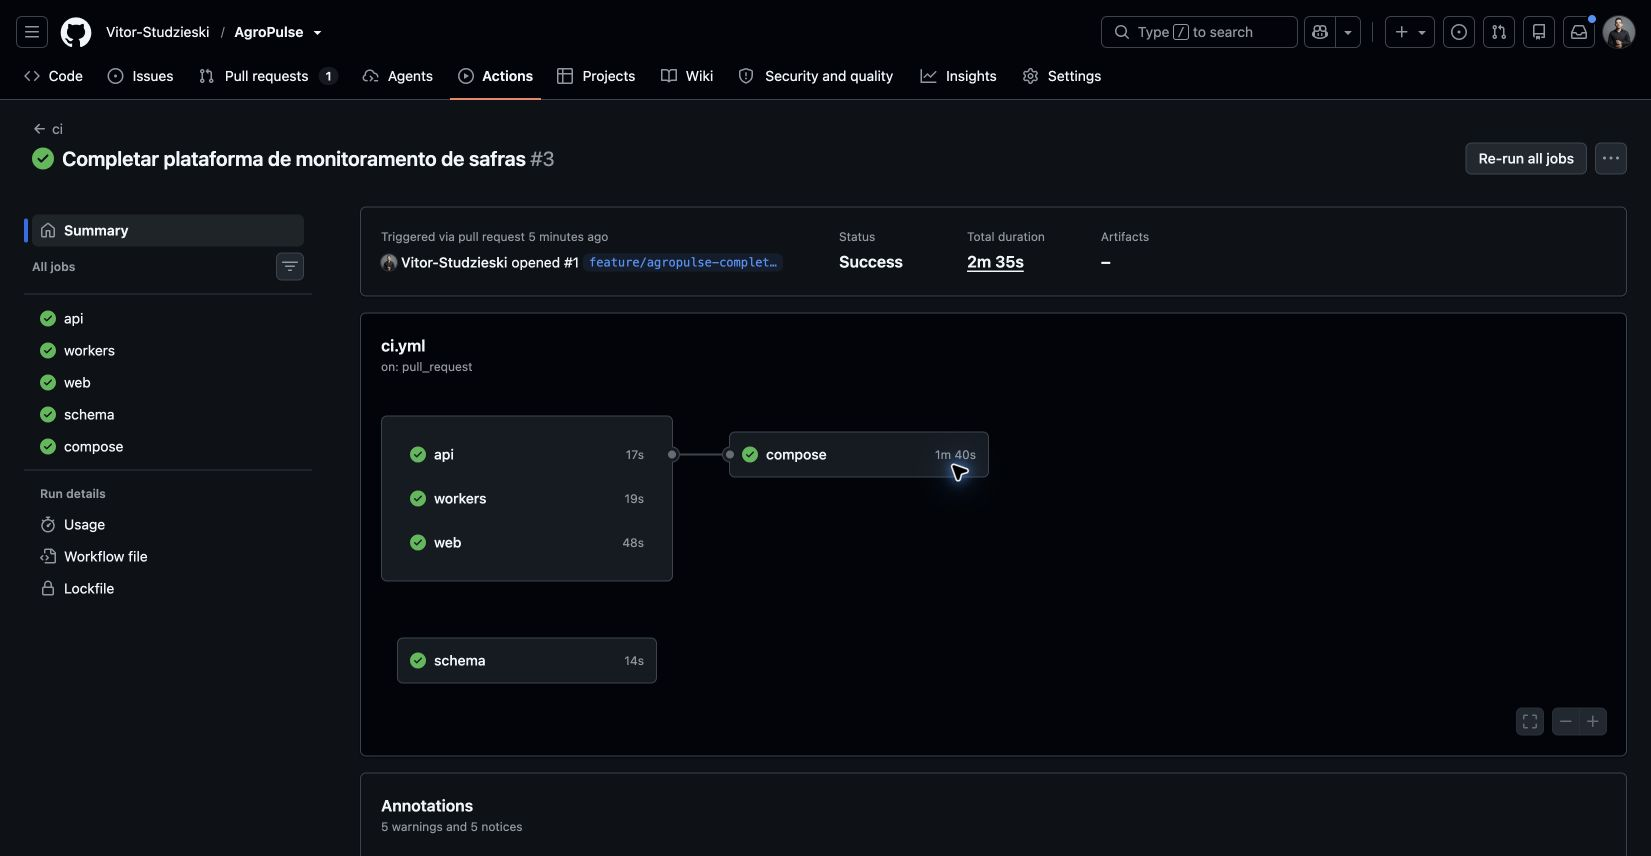
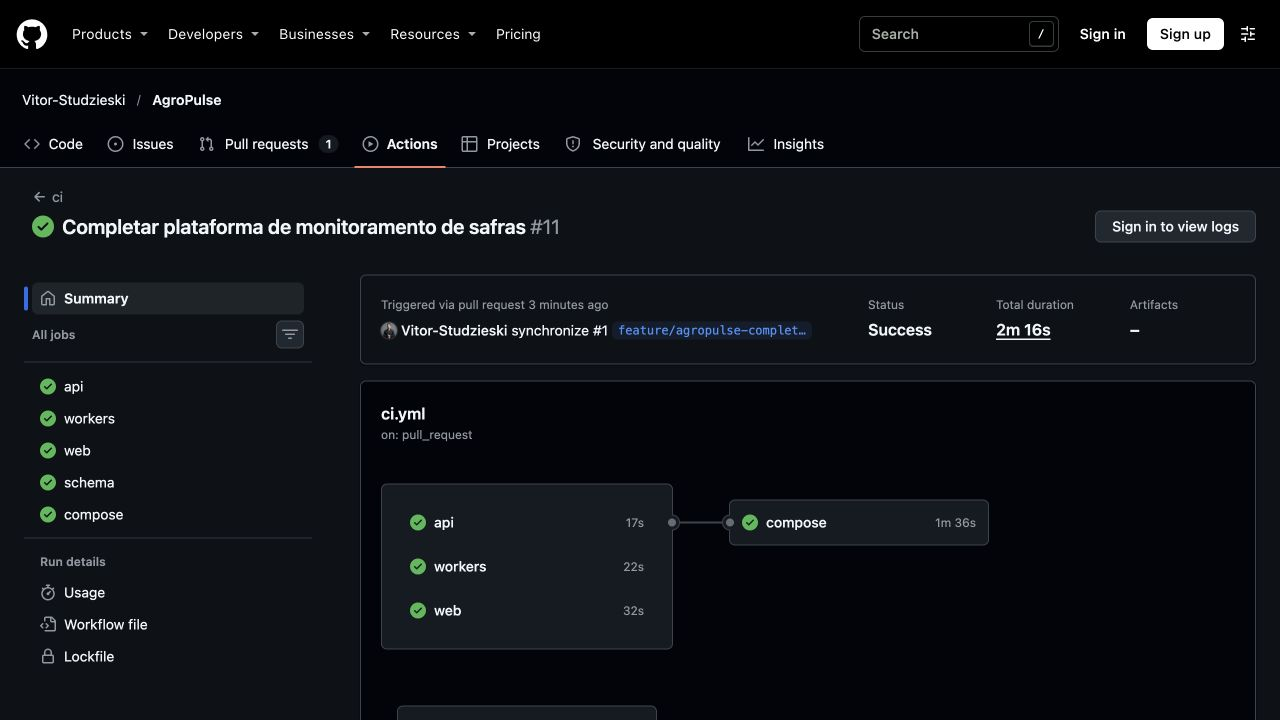
docs: atualizar evidencias do CI

diff --git a/docs/REQUISITOS.md b/docs/REQUISITOS.md
@@ -27,7 +27,7 @@ Esta matriz converte os requisitos do guia de engenharia (seções 2–14) em ev
 | Persistência MongoDB | `infra/mongo/01-replica-set.js`, `02-schema.js` e `03-verify-schema.js`; coleções, time series, índices, validações, TTL e plano `IXSCAN` | A compatibilidade exata dos comandos do schema depende do tier MongoDB usado; o job de CI aplica e verifica em MongoDB 7 limpo. O Atlas Free usa MongoDB 8.0, então o schema hospedado ainda precisa de validação específica antes da publicação. |
 | Reprodutibilidade | `make demo` inicia a stack integrada, aplica o seed idempotente, gera sete dias de telemetria histórica, inicia a simulação ao vivo, importa as amostras oficiais limitadas de INMET/IBGE e executa o rollup inicial; o serviço integrado atualiza os resumos diariamente. Três Compose isolam web, API e workers; o front tem `package-lock.json`; API e workers têm locks Python transitivos, universais para Python 3.12 e com hashes, consumidos por Docker e CI | Exige Docker; consultas às APIs oficiais são necessárias apenas para atualizar as amostras. Atualizar uma dependência exige alterar a versão direta e regenerar os locks com `uv pip compile`. |
 | Recuperação automática | Restart policies Compose; supervisor da imagem Render; preenchimento de lacunas limitado; recuperação de alertas pendentes | Render Free hiberna quando ocioso; não promete 24/7, SLA ou execução contínua dos workers |
-| CI em cada push e PR | `.github/workflows/ci.yml`: lint/teste, sintaxe do gerador PAM, build web, schema, manifests e imagem Render | O PR #1 está aberto e publicado. O run #7, no commit `eab0007`, passou nos cinco jobs (API, workers, web, schema e Compose). O estado de cada atualização posterior aparece nos checks do próprio PR. |
+| CI em cada push e PR | `.github/workflows/ci.yml`: lint/teste, sintaxe do gerador PAM, build web, schema, manifests e imagem Render | O PR #1 está aberto e publicado. O run #11, no commit `e7b3f94`, passou nos cinco jobs (API, workers, web, schema e Compose). O estado de cada atualização posterior aparece nos checks do próprio PR. |
 | Custo de armazenamento Atlas | TTL de 30 dias no Blueprint, importação limitada e rollup | Atlas Free tem teto de dados + índices; monitorar e reduzir a carga ao aproximar do limite |
 
 ## Verificações locais concluídas
@@ -53,13 +53,13 @@ Esta matriz converte os requisitos do guia de engenharia (seções 2–14) em ev
 - Build de produção do Next.js, configuração dos cinco manifests Compose e construção da imagem Render aprovados. Uma cópia integrada e isolada da stack recebeu o seed Fatec e o ZIP INMET; o painel autenticado exibiu os dados de 2024 da A763.
 - Após reconstruir somente o serviço web, o Chrome recarregou a demonstração com a janela recente vazia e selecionou automaticamente `Ano 2024`; o painel exibiu as observações oficiais da A763 até 31/12/2024 às 20:00 no horário local. A captura acadêmica correspondente ainda precisa ser salva pelo grupo.
 - Fluxo integrado exercitado em stack Docker isolada com usuário sintético descartável: cadastro/login/perfil; CRUD de fazenda, talhão, safra, operação, sensor e regra de alerta; leitura emitida pelo simulador; alerta criado e avaliado pelo worker, resolvido e removido; exclusão dos recursos e da conta de teste; token revogado respondeu 401. Os dados do teste foram removidos e o volume da stack de demonstração foi preservado.
-- Workflow GitHub Actions verificado no PR #1: o run #7, no commit `eab0007`, terminou com sucesso nos jobs `schema`, `workers`, `api`, `web` e `compose`. O workflow executa em pushes e pull requests.
+- Workflow GitHub Actions verificado no PR #1: o run #11, no commit `e7b3f94`, terminou com sucesso nos jobs `schema`, `workers`, `api`, `web` e `compose`. O workflow executa em pushes e pull requests.
 - Os três Compose isolados iniciaram. Web/Mock API e API isolada responderam 200; API e imagem Render passaram health GET/HEAD e `/docs`. O worker isolado iniciou com 6 sensores, 3 regras e leituras geradas.
 - Os containers de validação foram encerrados com `down` normal; os volumes foram preservados. `git diff --check` passou.
 
 ## Evidências acadêmicas pendentes do grupo
 
-O guia também exige relatório, 28 capturas nomeadas, identificação dos integrantes, link do GitHub e apresentação em laboratório. Os nomes completos de Vitor Studzieski, Maria Fernanda Passos e Lauan Alves Ferneda já foram informados e constam em `docs/RELATORIO-MODELO.md`; o remoto público `https://github.com/Vitor-Studzieski/AgroPulse` foi confirmado. Há 26 capturas finais revisadas, incluindo o documento agregado da coleção `field_daily_stats` na captura 26. Os arquivos 15 e 18 existem, mas devem ser recapturados sem os erros exploratórios que aparecem na tela. Os RAs e a data da apresentação ainda precisam ser informados pelo grupo. A branch `feature/agropulse-completion` está publicada no PR #1, aberto e sem merge; o run #7 do commit `eab0007` passou nos cinco jobs.
+O guia também exige relatório, 28 capturas nomeadas, identificação dos integrantes, link do GitHub e apresentação em laboratório. Os nomes completos de Vitor Studzieski, Maria Fernanda Passos e Lauan Alves Ferneda já foram informados e constam em `docs/RELATORIO-MODELO.md`; o remoto público `https://github.com/Vitor-Studzieski/AgroPulse` foi confirmado. Há 26 capturas finais revisadas, incluindo o documento agregado da coleção `field_daily_stats` na captura 26. Os arquivos 15 e 18 existem, mas devem ser recapturados sem os erros exploratórios que aparecem na tela. Os RAs e a data da apresentação ainda precisam ser informados pelo grupo. A branch `feature/agropulse-completion` está publicada no PR #1, aberto e sem merge; o run #11 do commit `e7b3f94` passou nos cinco jobs.
 
 ## Pendências priorizadas
 

diff --git a/docs/RELATORIO-MODELO.md b/docs/RELATORIO-MODELO.md
@@ -126,7 +126,7 @@ A interface Next.js autentica pela API FastAPI e oferece o painel e os formulár
 
 ## 7. Testes e verificações
 
-Esta seção registra as verificações executadas e as capturas que ainda devem ser anexadas. As suítes locais de API e workers, o build de produção da interface e os manifests/builds locais foram executados. A branch `feature/agropulse-completion` foi publicada. O run #7 do CI no PR #1 passou nos cinco jobs para o commit `eab0007`; a captura 28 preserva o resultado anterior do run #3 (`285c32c`).
+Esta seção registra as verificações executadas e as capturas que ainda devem ser anexadas. As suítes locais de API e workers, o build de produção da interface e os manifests/builds locais foram executados. A branch `feature/agropulse-completion` foi publicada. O run #11 do CI no PR #1 passou nos cinco jobs para o commit `e7b3f94`; a captura 28 registra esse resultado.
 
 | Verificação | Resultado observado | Data / evidência |
 |---|---|---|
@@ -137,7 +137,7 @@ Esta seção registra as verificações executadas e as capturas que ainda devem
 | Compose e smoke tests locais | Os três ambientes isolados iniciaram; endpoints de saúde e documentação responderam | Validação local; anexar log/captura |
 | Demonstração em banco vazio | `make demo` em projeto Compose isolado criou seed, 3 talhões e 6 sensores; backfill gerou 12.096 leituras sintéticas de sete dias; importou INMET A763 (8.784 leituras) e PAM/SP (1.556 registros); o rollup criou 24 documentos em `field_daily_stats`. A API autenticada retornou clima 2024 e top 10 do ranking 2023. A segunda execução manteve as contagens, sem backfill duplicado ou resumos diários duplicados. | 2026-10-30; validação repetida em projeto isolado e volumes temporários removidos após a conferência |
 | Fluxo CRUD integrado | Cadastro/login, recursos agrícolas, telemetria simulada, alerta avaliado pelo worker e exclusão da conta temporária concluídos; token revogado retornou 401 | Stack local isolada, 2026-10-30; conta descartável removida, anexar captura se exigida |
-| GitHub Actions remoto | Aprovado em 2026-10-31 nos jobs schema, workers, api, web e compose | Run #7 do PR #1, commit `eab0007`; cinco jobs aprovados. A captura `28-github-actions-verde.png` mostra o run #3 do commit `285c32c`. Avisos do runner sobre Node.js 20 e a migração de `ubuntu-latest` não impediram a aprovação. |
+| GitHub Actions remoto | Aprovado em 2026-10-31 nos jobs schema, workers, api, web e compose | Run #11 do PR #1, commit `e7b3f94`; cinco jobs aprovados. A captura `28-github-actions-verde.png` mostra esse resultado. Avisos do runner sobre Node.js 20 e a migração de `ubuntu-latest` não impediram a aprovação. |
 
 ## 8. Demonstração
 
@@ -159,7 +159,7 @@ Limitações verificadas ou pendentes de evidência:
 - Na validação descartável sem volume, o ZIP oficial do INMET 2024 foi importado com filtro SP após aplicação de `infra/mongo/02-schema.js`: 40 estações e 351.360 observações. A amostra compacta versionada conserva somente o arquivo oficial da A763/Marília (8.784 leituras). `make demo` a carrega para que a demonstração anual funcione em um clone limpo; a API e o painel mostraram A763 a 27,8 km do campus e a última observação em 31/12/2024 23:00 UTC (20:00 no horário local). Ainda falta anexar a captura acadêmica.
 - A fixture SIDRA oficial de Sorriso (MT), ano 2023, valida leitura e parsing e foi importada em um MongoDB temporário sem volume persistente; foram conferidos três documentos (soja, milho e cana). Repetir ou fotografar essa consulta no ambiente de demonstração do grupo, se exigido.
 - A amostra oficial da PAM/SIDRA 2023 para SP está versionada em `data/imports/pam-sp-2023.csv` e é carregada por `make demo` sem consulta externa. O gerador consultou as APIs oficiais e reproduziu o CSV versionado byte a byte. O importador persistiu 1.556 combinações municipais completas; a API autenticada retornou o top 10 de soja por produtividade e o painel exibiu Pompéia na referência oficial regional. Isso não altera a demonstração espacial, que permanece limitada ao campus e a polígonos sintéticos próximos.
-- A branch pública `feature/agropulse-completion` está no remoto `https://github.com/Vitor-Studzieski/AgroPulse` e o PR #1 está aberto para revisão, sem merge. O CI do commit de implementação `285c32c` passou nos cinco jobs. Faltam recapturar 15 e 18 sem erros exploratórios, inserir os RAs e confirmar a data da apresentação para fechar a versão acadêmica final.
+- A branch pública `feature/agropulse-completion` está no remoto `https://github.com/Vitor-Studzieski/AgroPulse` e o PR #1 está aberto para revisão, sem merge. O run #11 do CI no commit `e7b3f94` passou nos cinco jobs. Faltam recapturar 15 e 18 sem erros exploratórios, inserir os RAs e confirmar a data da apresentação para fechar a versão acadêmica final.
 
 Como trabalhos futuros, podem ser considerados autenticação de dispositivos e ingestão por gateway, exportação do relatório de safra e avaliação com uma carga de dados maior, preservando os limites financeiros definidos.
 

diff --git a/docs/evidencias/README.md b/docs/evidencias/README.md
@@ -4,7 +4,7 @@ Salve as capturas listadas no apêndice A de [RELATORIO-MODELO.md](../RELATORIO-
 
 Use apenas dados de demonstração nos prints. Não inclua senhas, tokens, strings de conexão, dados pessoais ou credenciais de serviços. Para GitHub Actions, capture o resultado real depois que o workflow remoto for executado; não produza uma imagem ilustrativa no lugar do check.
 
-Das 28 capturas previstas no apêndice A, os 28 arquivos numerados estão salvos. Vinte e seis foram revisados como finais: `01-login.png` a `14-codigo-change-stream.png`, `16-getcollectioninfos-timeseries.png`, `17-validacao-erro.png`, `19-geointersects.png`, `20-agregacao-media-diaria.png`, `21-compass-colecoes.png`, `22-documento-fields.png`, `23-documento-sensor-reading.png`, `24-indices-fields.png`, `25-validacao-farms.png`, `26-field-daily-stats.png`, `27-github-repo.png` e `28-github-actions-verde.png`. As imagens 15 e 18 mostram os resultados esperados, mas também incluem erros exploratórios anteriores e devem ser recapturadas. A captura 26 mostra a coleção `field_daily_stats` com 24 documentos agregados. A captura Swagger mostra a rota pública `GET /health` e a resposta HTTP 200 (`{"status":"ok"}`). `painel-visao-geral.png` é uma imagem complementar do dashboard. As telas de Safras e Operações mostram estados vazios reais da demonstração; não foram criados registros apenas para preencher capturas. A imagem 28 registra o run #3 do commit `285c32c`; o run #7 do commit `eab0007` também passou nos cinco jobs do GitHub Actions. Os RAs e a data da apresentação devem ser completados pelo grupo antes da entrega.
+Das 28 capturas previstas no apêndice A, os 28 arquivos numerados estão salvos. Vinte e seis foram revisados como finais: `01-login.png` a `14-codigo-change-stream.png`, `16-getcollectioninfos-timeseries.png`, `17-validacao-erro.png`, `19-geointersects.png`, `20-agregacao-media-diaria.png`, `21-compass-colecoes.png`, `22-documento-fields.png`, `23-documento-sensor-reading.png`, `24-indices-fields.png`, `25-validacao-farms.png`, `26-field-daily-stats.png`, `27-github-repo.png` e `28-github-actions-verde.png`. As imagens 15 e 18 mostram os resultados esperados, mas também incluem erros exploratórios anteriores e devem ser recapturadas. A captura 26 mostra a coleção `field_daily_stats` com 24 documentos agregados. A captura Swagger mostra a rota pública `GET /health` e a resposta HTTP 200 (`{"status":"ok"}`). `painel-visao-geral.png` é uma imagem complementar do dashboard. As telas de Safras e Operações mostram estados vazios reais da demonstração; não foram criados registros apenas para preencher capturas. A imagem 28 registra o run #11 do commit `e7b3f94`; os cinco jobs do GitHub Actions passaram. Os RAs e a data da apresentação devem ser completados pelo grupo antes da entrega.
 
 ## Conteúdo de cada captura
 
@@ -21,6 +21,6 @@ Use esta lista para conferir o enquadramento antes de marcar um item como conclu
 | `19-geointersects` | Compass mongosh: consultar `fields.boundary` com `$geoIntersects` no ponto do campus `[-50.1994, -22.1110]`; mostrar o talhão de demonstração retornado. |
 | `20-agregacao-media-diaria` | Compass mongosh: média diária de `soil_moisture` agrupada por talhão e dia, conforme consulta em `docs/MODELO-DADOS.md`. |
 | `21-compass-colecoes`, `22-documento-fields`, `23-documento-sensor-reading`, `24-indices-fields`, `25-validacao-farms`, `26-field-daily-stats` | Compass: lista de coleções; documento de `fields`; documento em `sensor_readings`; índices de `fields`; validação de `farms`; documento agregado em `field_daily_stats`. `make demo` executa o rollup inicial. |
-| `27-github-repo`, `28-github-actions-verde` | Branch público `feature/agropulse-completion` e PR #1 aberto. A captura 28 mostra os cinco jobs aprovados no run #3 (`285c32c`); o run #7 do commit `eab0007` também passou nos cinco jobs. O PR permanece aberto para revisão. |
+| `27-github-repo`, `28-github-actions-verde` | Branch público `feature/agropulse-completion` e PR #1 aberto. A captura 28 mostra os cinco jobs aprovados no run #11 (`e7b3f94`). O PR permanece aberto para revisão. |
 
 Para os itens 15–20, mantenha comando e resposta na mesma captura. Não mostre tokens, senhas, connection strings, dados pessoais ou documentos fora da demonstração. Os itens 21–28 já foram conferidos visualmente. Os itens 15 e 18 precisam ser recapturados sem os erros exploratórios.
